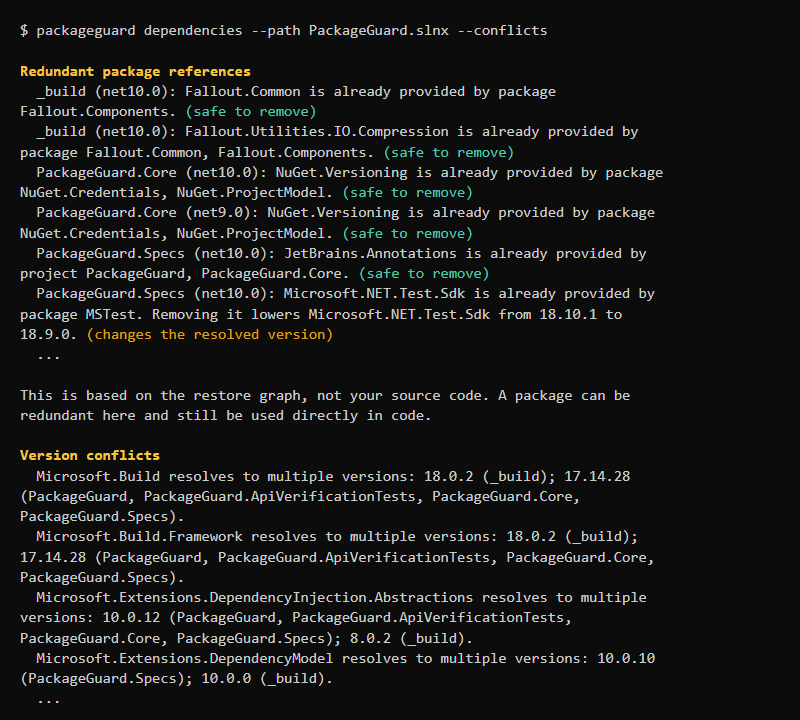
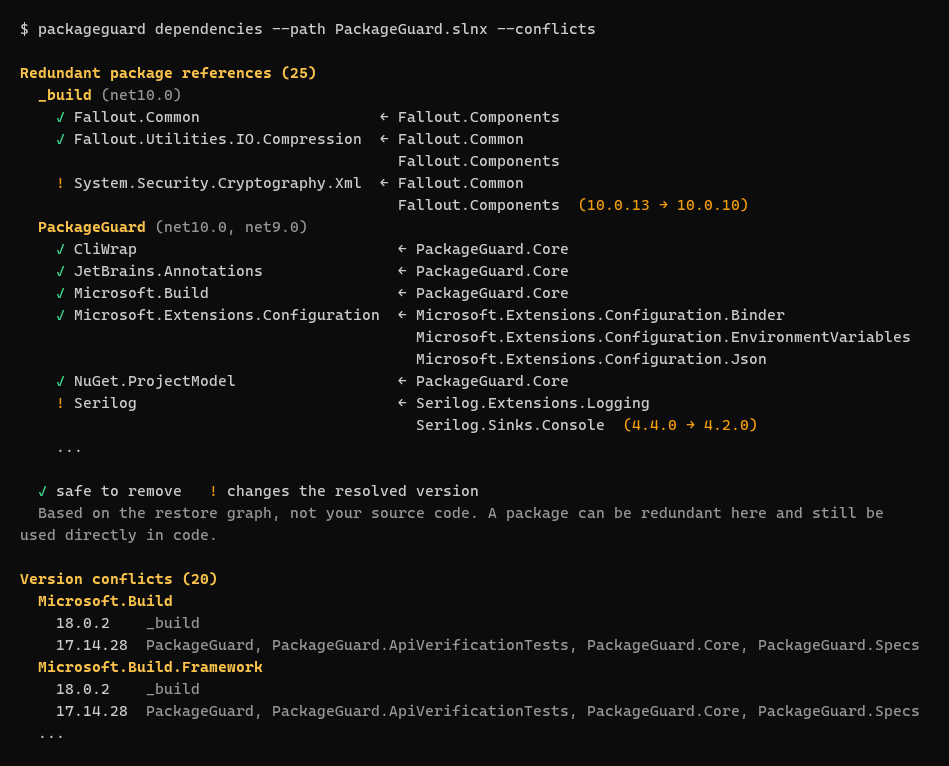
Make the dependencies command output easier to scan (#297)
* Make the dependencies command output easier to scan

Group redundant references by project, put a safe/unsafe marker at the
start of each line, show providers one per line in an aligned column, and
print findings that repeat across target frameworks once. Version
conflicts now list one version per line under the package name. Counts
are shown in the headings and the legend is printed once.

* Pin System.Security.Cryptography.Xml to 10.0.13 in the build project

The transitive 10.0.10 now has an advisory with an OSV severity of 8, which
fails the RunPackageGuard policy check in CI.

* Temporarily exempt System.Security.Cryptography.Xml 10.0.13 from the age rule

10.0.13 is the only release that fixes the advisories in the transitive
10.0.10, but it is younger than the 3-day minimum package age. The
exception is limited to that version and expires on 2026-10-17.

* Rename local constant to match the naming rule

* Refresh the dependencies output screenshot for the new layout

---------

Changed region(s): [[0.0, 0.0917, 0.9688, 0.9472], [0.0, 0.0306, 0.6875, 0.0611]]

diff --git a/Src/PackageGuard/DependenciesCommand.cs b/Src/PackageGuard/DependenciesCommand.cs
@@ -61,27 +61,83 @@ public sealed class DependenciesCommand(ILogger logger) : AsyncCommand<Dependenc
         if (redundancies.Length > 0)
         {
             AnsiConsole.MarkupLine("");
-            AnsiConsole.MarkupLine("[bold]Redundant package references[/]");
-            foreach (DependencyFinding finding in redundancies)
+            AnsiConsole.MarkupLine($"[bold]Redundant package references ({redundancies.Length})[/]");
+            foreach (IGrouping<string, DependencyFinding> project in redundancies.GroupBy(f => f.Project).OrderBy(g => g.Key))
             {
-                string safety = finding.SafeToRemove ? "[green3_1]safe to remove[/]" : "[yellow1]changes the resolved version[/]";
-                AnsiConsole.MarkupLine(
-                    $"  {Markup.Escape(finding.Project)} ({Markup.Escape(finding.TargetFramework)}): {Markup.Escape(finding.Description)} ({safety})");
+                ReportProject(project);
             }
 
             AnsiConsole.MarkupLine("");
+            AnsiConsole.MarkupLine("  [green3_1]✓[/] safe to remove   [yellow1]![/] changes the resolved version");
             AnsiConsole.MarkupLine(
-                "[grey]This is based on the restore graph, not your source code. A package can be redundant here and still be used directly in code.[/]");
+                "[grey]  Based on the restore graph, not your source code. A package can be redundant here and still be used directly in code.[/]");
         }
 
         if (conflicts.Length > 0)
         {
             AnsiConsole.MarkupLine("");
-            AnsiConsole.MarkupLine("[bold]Version conflicts[/]");
+            AnsiConsole.MarkupLine($"[bold]Version conflicts ({conflicts.Length})[/]");
             foreach (DependencyFinding finding in conflicts)
             {
-                AnsiConsole.MarkupLine($"  {Markup.Escape(finding.Description)}");
+                ReportConflict(finding);
             }
+        }
+    }
+
+    private static void ReportProject(IGrouping<string, DependencyFinding> project)
+    {
+        // The same finding in several target frameworks is printed once, with all frameworks listed.
+        var rows = project
+            .GroupBy(f => (f.PackageId, Providers: string.Join(", ", f.Providers), f.SafeToRemove, f.ResolvedVersion, f.WouldResolveTo))
+            .Select(g => (g.Key, Frameworks: string.Join(", ", g.Select(f => f.TargetFramework).Distinct().Order())))
+            .OrderBy(r => r.Key.PackageId, StringComparer.OrdinalIgnoreCase)
+            .ToArray();
+
+        string frameworks = string.Join(", ", rows.SelectMany(r => r.Frameworks.Split(", ")).Distinct().Order());
+        AnsiConsole.MarkupLine($"  [bold]{Markup.Escape(project.Key)}[/] [grey]({Markup.Escape(frameworks)})[/]");
+
+        // A grid keeps multi-line provider lists aligned under their own column.
+        var grid = new Grid();
+        grid.AddColumn(new GridColumn().NoWrap().PadLeft(4).PadRight(1));
+        grid.AddColumn(new GridColumn().NoWrap().PadLeft(0).PadRight(2));
+        grid.AddColumn(new GridColumn().PadLeft(0).PadRight(0));
+
+        bool mixedFrameworks = rows.Any(r => r.Frameworks != frameworks);
+        foreach (var row in rows)
+        {
+            string marker = row.Key.SafeToRemove ? "[green3_1]✓[/]" : "[yellow1]![/]";
+            string note = row.Key.SafeToRemove ? "" : $"  [yellow1]({row.Key.ResolvedVersion} → {row.Key.WouldResolveTo})[/]";
+            string onlyIn = mixedFrameworks ? $" [grey]({Markup.Escape(row.Frameworks)})[/]" : "";
+
+            // One provider per line, so a long list never wraps in the middle of a name.
+            string providers = string.Join('\n', row.Key.Providers.Split(", ").Select((p, i) =>
+                $"{(i == 0 ? "←" : " ")} {Markup.Escape(p)}"));
+
+            grid.AddRow(new Markup(marker), new Markup(Markup.Escape(row.Key.PackageId)),
+                new Markup($"{providers}{note}{onlyIn}"));
+        }
+
+        AnsiConsole.Write(grid);
+    }
+
+    private static void ReportConflict(DependencyFinding finding)
+    {
+        // Description is "<package> resolves to multiple versions: <v> (<projects>); <v> (<projects>)."
+        const string separator = " resolves to multiple versions: ";
+        int index = finding.Description.IndexOf(separator, StringComparison.Ordinal);
+        if (index < 0)
+        {
+            AnsiConsole.MarkupLine($"  {Markup.Escape(finding.Description)}");
+            return;
+        }
+
+        AnsiConsole.MarkupLine($"  [bold]{Markup.Escape(finding.PackageId)}[/]");
+        foreach (string version in finding.Description[(index + separator.Length)..].TrimEnd('.').Split("; "))
+        {
+            int open = version.IndexOf(" (", StringComparison.Ordinal);
+            string number = open < 0 ? version : version[..open];
+            string projects = open < 0 ? "" : version[(open + 2)..^1];
+            AnsiConsole.MarkupLine($"    {Markup.Escape(number.PadRight(10))}[grey]{Markup.Escape(projects)}[/]");
         }
     }
 }
